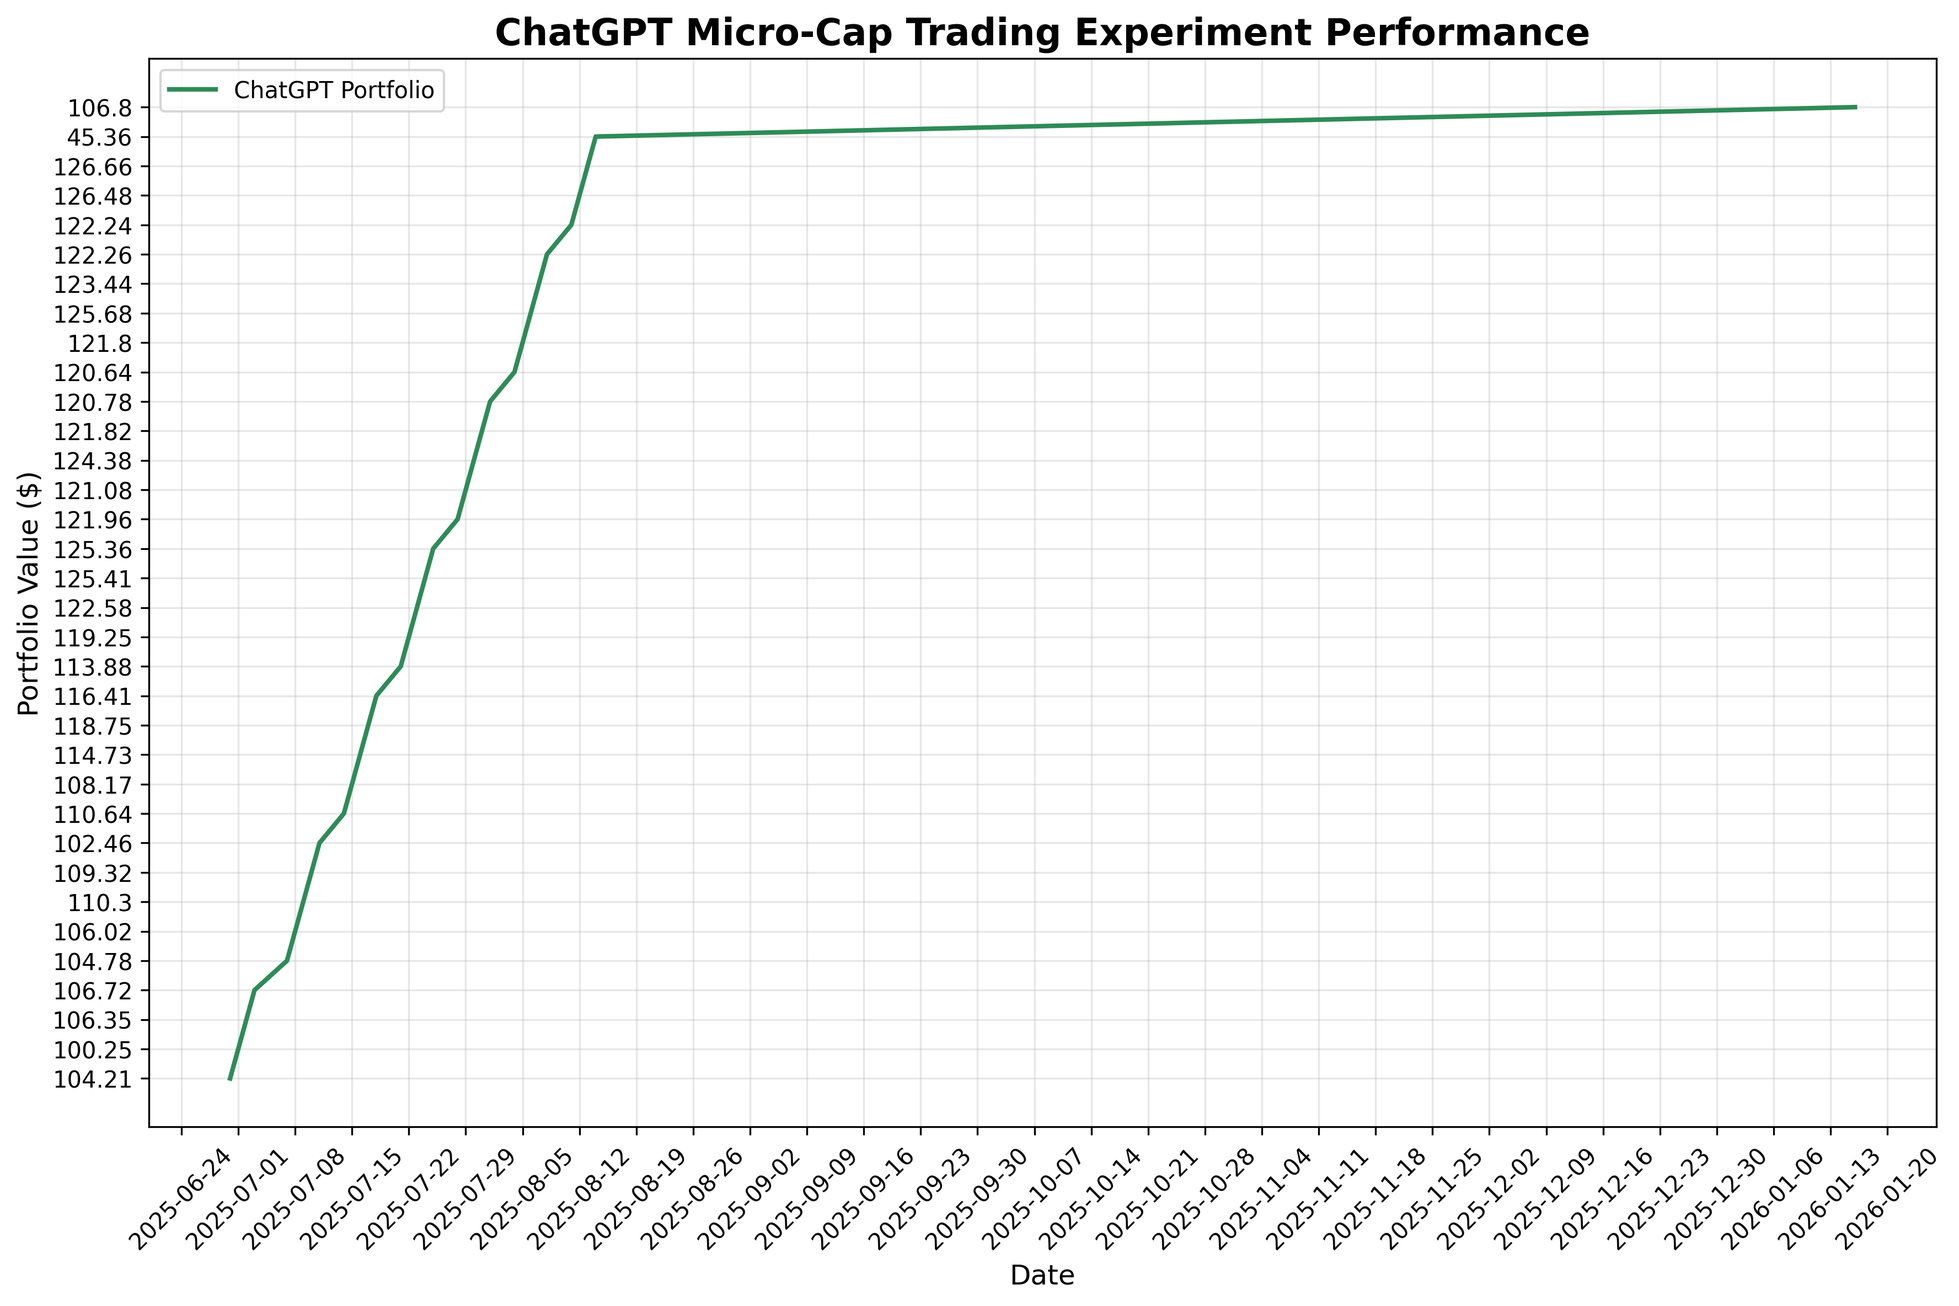
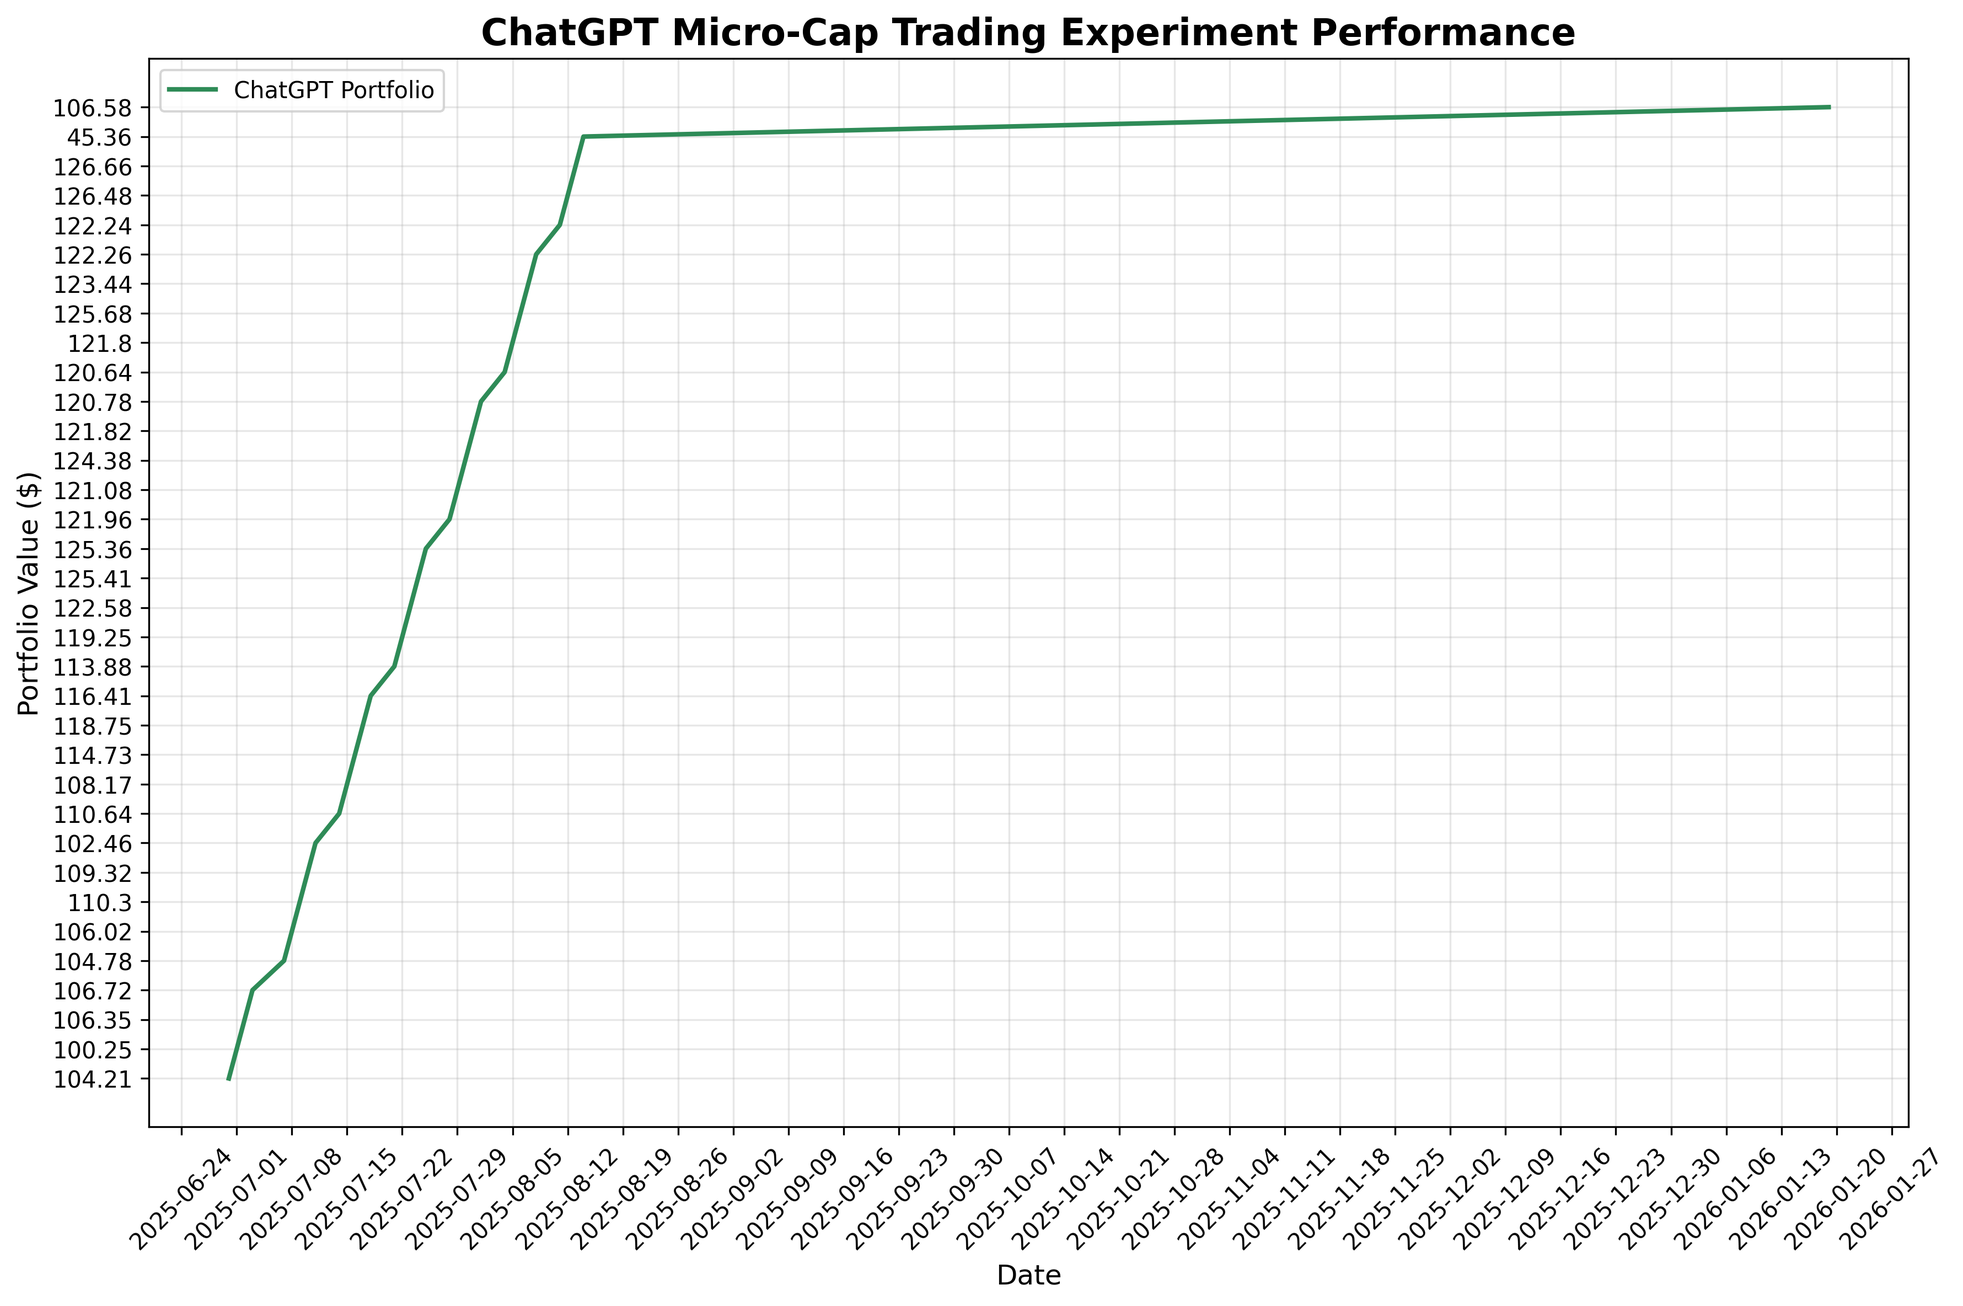
deploy: e15cad030d70fb3fbb51f9df6e22fa70c2f175c0

diff --git a/index.html b/index.html
@@ -105,7 +105,7 @@
                 <div class="stat-label">Total Trades</div>
             </div>
             <div class="stat-card">
-                <div class="stat-value" id="last-updated">2026-01-16</div>
+                <div class="stat-value" id="last-updated">2026-01-19</div>
                 <div class="stat-label">Last Updated</div>
             </div>
         </div>
@@ -160,7 +160,7 @@
     
     <script>
         // Portfolio data
-        const portfolioData = JSON.parse("[{&quot;Date&quot;: &quot;2025-08-11&quot;, &quot;Ticker&quot;: &quot;ABEO&quot;, &quot;Shares&quot;: 4.0, &quot;Buy Price&quot;: 5.77, &quot;Cost Basis&quot;: 23.08, &quot;Stop Loss&quot;: 4.9, &quot;Current Price&quot;: 6.28, &quot;Total Value&quot;: 25.12, &quot;PnL&quot;: 2.04, &quot;Action&quot;: &quot;HOLD&quot;, &quot;Cash Balance&quot;: NaN, &quot;Total Equity&quot;: NaN}, {&quot;Date&quot;: &quot;2025-08-11&quot;, &quot;Ticker&quot;: &quot;ACTU&quot;, &quot;Shares&quot;: 6.0, &quot;Buy Price&quot;: 5.75, &quot;Cost Basis&quot;: 34.5, &quot;Stop Loss&quot;: 4.89, &quot;Current Price&quot;: 8.01, &quot;Total Value&quot;: 48.06, &quot;PnL&quot;: 13.56, &quot;Action&quot;: &quot;HOLD&quot;, &quot;Cash Balance&quot;: NaN, &quot;Total Equity&quot;: NaN}, {&quot;Date&quot;: &quot;2025-08-11&quot;, &quot;Ticker&quot;: &quot;ESPR&quot;, &quot;Shares&quot;: 2.0, &quot;Buy Price&quot;: 1.91, &quot;Cost Basis&quot;: 3.82, &quot;Stop Loss&quot;: 1.6, &quot;Current Price&quot;: 1.85, &quot;Total Value&quot;: 3.7, &quot;PnL&quot;: -0.12, &quot;Action&quot;: &quot;HOLD&quot;, &quot;Cash Balance&quot;: NaN, &quot;Total Equity&quot;: NaN}, {&quot;Date&quot;: &quot;2025-08-11&quot;, &quot;Ticker&quot;: &quot;TOTAL&quot;, &quot;Shares&quot;: NaN, &quot;Buy Price&quot;: NaN, &quot;Cost Basis&quot;: NaN, &quot;Stop Loss&quot;: NaN, &quot;Current Price&quot;: NaN, &quot;Total Value&quot;: 76.88, &quot;PnL&quot;: 15.48, &quot;Action&quot;: NaN, &quot;Cash Balance&quot;: 45.36, &quot;Total Equity&quot;: &quot;122.24&quot;}, {&quot;Date&quot;: &quot;2025-08-12&quot;, &quot;Ticker&quot;: &quot;ABEO&quot;, &quot;Shares&quot;: 4.0, &quot;Buy Price&quot;: 5.77, &quot;Cost Basis&quot;: 23.08, &quot;Stop Loss&quot;: 4.9, &quot;Current Price&quot;: 6.38, &quot;Total Value&quot;: 25.52, &quot;PnL&quot;: 2.44, &quot;Action&quot;: &quot;HOLD&quot;, &quot;Cash Balance&quot;: NaN, &quot;Total Equity&quot;: NaN}, {&quot;Date&quot;: &quot;2025-08-12&quot;, &quot;Ticker&quot;: &quot;ACTU&quot;, &quot;Shares&quot;: 6.0, &quot;Buy Price&quot;: 5.75, &quot;Cost Basis&quot;: 34.5, &quot;Stop Loss&quot;: 4.89, &quot;Current Price&quot;: 8.67, &quot;Total Value&quot;: 52.02, &quot;PnL&quot;: 17.52, &quot;Action&quot;: &quot;HOLD&quot;, &quot;Cash Balance&quot;: NaN, &quot;Total Equity&quot;: NaN}, {&quot;Date&quot;: &quot;2025-08-12&quot;, &quot;Ticker&quot;: &quot;ESPR&quot;, &quot;Shares&quot;: 2.0, &quot;Buy Price&quot;: 1.91, &quot;Cost Basis&quot;: 3.82, &quot;Stop Loss&quot;: 1.6, &quot;Current Price&quot;: 1.79, &quot;Total Value&quot;: 3.58, &quot;PnL&quot;: -0.24, &quot;Action&quot;: &quot;HOLD&quot;, &quot;Cash Balance&quot;: NaN, &quot;Total Equity&quot;: NaN}, {&quot;Date&quot;: &quot;2025-08-12&quot;, &quot;Ticker&quot;: &quot;TOTAL&quot;, &quot;Shares&quot;: NaN, &quot;Buy Price&quot;: NaN, &quot;Cost Basis&quot;: NaN, &quot;Stop Loss&quot;: NaN, &quot;Current Price&quot;: NaN, &quot;Total Value&quot;: 81.12, &quot;PnL&quot;: 19.72, &quot;Action&quot;: NaN, &quot;Cash Balance&quot;: 45.36, &quot;Total Equity&quot;: &quot;126.48&quot;}, {&quot;Date&quot;: &quot;2025-08-13&quot;, &quot;Ticker&quot;: &quot;ABEO&quot;, &quot;Shares&quot;: 4.0, &quot;Buy Price&quot;: 5.77, &quot;Cost Basis&quot;: 23.08, &quot;Stop Loss&quot;: 4.9, &quot;Current Price&quot;: 6.56, &quot;Total Value&quot;: 26.24, &quot;PnL&quot;: 3.16, &quot;Action&quot;: &quot;HOLD&quot;, &quot;Cash Balance&quot;: NaN, &quot;Total Equity&quot;: NaN}, {&quot;Date&quot;: &quot;2025-08-13&quot;, &quot;Ticker&quot;: &quot;ACTU&quot;, &quot;Shares&quot;: 6.0, &quot;Buy Price&quot;: 5.75, &quot;Cost Basis&quot;: 34.5, &quot;Stop Loss&quot;: 4.89, &quot;Current Price&quot;: 8.53, &quot;Total Value&quot;: 51.18, &quot;PnL&quot;: 16.68, &quot;Action&quot;: &quot;HOLD&quot;, &quot;Cash Balance&quot;: NaN, &quot;Total Equity&quot;: NaN}, {&quot;Date&quot;: &quot;2025-08-13&quot;, &quot;Ticker&quot;: &quot;ESPR&quot;, &quot;Shares&quot;: 2.0, &quot;Buy Price&quot;: 1.91, &quot;Cost Basis&quot;: 3.82, &quot;Stop Loss&quot;: 1.6, &quot;Current Price&quot;: 1.94, &quot;Total Value&quot;: 3.88, &quot;PnL&quot;: 0.06, &quot;Action&quot;: &quot;HOLD&quot;, &quot;Cash Balance&quot;: NaN, &quot;Total Equity&quot;: NaN}, {&quot;Date&quot;: &quot;2025-08-13&quot;, &quot;Ticker&quot;: &quot;TOTAL&quot;, &quot;Shares&quot;: NaN, &quot;Buy Price&quot;: NaN, &quot;Cost Basis&quot;: NaN, &quot;Stop Loss&quot;: NaN, &quot;Current Price&quot;: NaN, &quot;Total Value&quot;: 81.3, &quot;PnL&quot;: 19.9, &quot;Action&quot;: NaN, &quot;Cash Balance&quot;: 45.36, &quot;Total Equity&quot;: &quot;126.66&quot;}, {&quot;Date&quot;: &quot;2025-08-14&quot;, &quot;Ticker&quot;: &quot;ABEO&quot;, &quot;Shares&quot;: 4.0, &quot;Buy Price&quot;: 5.77, &quot;Cost Basis&quot;: 23.08, &quot;Stop Loss&quot;: 4.9, &quot;Current Price&quot;: NaN, &quot;Total Value&quot;: NaN, &quot;PnL&quot;: NaN, &quot;Action&quot;: &quot;NO DATA&quot;, &quot;Cash Balance&quot;: NaN, &quot;Total Equity&quot;: NaN}, {&quot;Date&quot;: &quot;2025-08-14&quot;, &quot;Ticker&quot;: &quot;ACTU&quot;, &quot;Shares&quot;: 6.0, &quot;Buy Price&quot;: 5.75, &quot;Cost Basis&quot;: 34.5, &quot;Stop Loss&quot;: 4.89, &quot;Current Price&quot;: NaN, &quot;Total Value&quot;: NaN, &quot;PnL&quot;: NaN, &quot;Action&quot;: &quot;NO DATA&quot;, &quot;Cash Balance&quot;: NaN, &quot;Total Equity&quot;: NaN}, {&quot;Date&quot;: &quot;2025-08-14&quot;, &quot;Ticker&quot;: &quot;ESPR&quot;, &quot;Shares&quot;: 2.0, &quot;Buy Price&quot;: 1.91, &quot;Cost Basis&quot;: 3.82, &quot;Stop Loss&quot;: 1.6, &quot;Current Price&quot;: NaN, &quot;Total Value&quot;: NaN, &quot;PnL&quot;: NaN, &quot;Action&quot;: &quot;NO DATA&quot;, &quot;Cash Balance&quot;: NaN, &quot;Total Equity&quot;: NaN}, {&quot;Date&quot;: &quot;2025-08-14&quot;, &quot;Ticker&quot;: &quot;TOTAL&quot;, &quot;Shares&quot;: NaN, &quot;Buy Price&quot;: NaN, &quot;Cost Basis&quot;: NaN, &quot;Stop Loss&quot;: NaN, &quot;Current Price&quot;: NaN, &quot;Total Value&quot;: 0.0, &quot;PnL&quot;: 0.0, &quot;Action&quot;: NaN, &quot;Cash Balance&quot;: 45.36, &quot;Total Equity&quot;: &quot;45.36&quot;}, {&quot;Date&quot;: &quot;2026-01-16&quot;, &quot;Ticker&quot;: &quot;ABEO&quot;, &quot;Shares&quot;: 4.0, &quot;Buy Price&quot;: 5.77, &quot;Cost Basis&quot;: 23.08, &quot;Stop Loss&quot;: 4.9, &quot;Current Price&quot;: 5.64, &quot;Total Value&quot;: 22.56, &quot;PnL&quot;: -0.52, &quot;Action&quot;: &quot;HOLD&quot;, &quot;Cash Balance&quot;: NaN, &quot;Total Equity&quot;: NaN}, {&quot;Date&quot;: &quot;2026-01-16&quot;, &quot;Ticker&quot;: &quot;ACTU&quot;, &quot;Shares&quot;: 6.0, &quot;Buy Price&quot;: 5.75, &quot;Cost Basis&quot;: 34.5, &quot;Stop Loss&quot;: 4.89, &quot;Current Price&quot;: 5.44, &quot;Total Value&quot;: 32.64, &quot;PnL&quot;: -1.86, &quot;Action&quot;: &quot;HOLD&quot;, &quot;Cash Balance&quot;: NaN, &quot;Total Equity&quot;: NaN}, {&quot;Date&quot;: &quot;2026-01-16&quot;, &quot;Ticker&quot;: &quot;ESPR&quot;, &quot;Shares&quot;: 2.0, &quot;Buy Price&quot;: 1.91, &quot;Cost Basis&quot;: 3.82, &quot;Stop Loss&quot;: 1.6, &quot;Current Price&quot;: 3.12, &quot;Total Value&quot;: 6.24, &quot;PnL&quot;: 2.42, &quot;Action&quot;: &quot;HOLD&quot;, &quot;Cash Balance&quot;: NaN, &quot;Total Equity&quot;: NaN}, {&quot;Date&quot;: &quot;2026-01-16&quot;, &quot;Ticker&quot;: &quot;TOTAL&quot;, &quot;Shares&quot;: NaN, &quot;Buy Price&quot;: NaN, &quot;Cost Basis&quot;: NaN, &quot;Stop Loss&quot;: NaN, &quot;Current Price&quot;: NaN, &quot;Total Value&quot;: 61.44, &quot;PnL&quot;: 0.04, &quot;Action&quot;: NaN, &quot;Cash Balance&quot;: 45.36, &quot;Total Equity&quot;: &quot;106.8&quot;}]");
+        const portfolioData = JSON.parse("[{&quot;Date&quot;: &quot;2025-08-11&quot;, &quot;Ticker&quot;: &quot;ABEO&quot;, &quot;Shares&quot;: 4.0, &quot;Buy Price&quot;: 5.77, &quot;Cost Basis&quot;: 23.08, &quot;Stop Loss&quot;: 4.9, &quot;Current Price&quot;: 6.28, &quot;Total Value&quot;: 25.12, &quot;PnL&quot;: 2.04, &quot;Action&quot;: &quot;HOLD&quot;, &quot;Cash Balance&quot;: NaN, &quot;Total Equity&quot;: NaN}, {&quot;Date&quot;: &quot;2025-08-11&quot;, &quot;Ticker&quot;: &quot;ACTU&quot;, &quot;Shares&quot;: 6.0, &quot;Buy Price&quot;: 5.75, &quot;Cost Basis&quot;: 34.5, &quot;Stop Loss&quot;: 4.89, &quot;Current Price&quot;: 8.01, &quot;Total Value&quot;: 48.06, &quot;PnL&quot;: 13.56, &quot;Action&quot;: &quot;HOLD&quot;, &quot;Cash Balance&quot;: NaN, &quot;Total Equity&quot;: NaN}, {&quot;Date&quot;: &quot;2025-08-11&quot;, &quot;Ticker&quot;: &quot;ESPR&quot;, &quot;Shares&quot;: 2.0, &quot;Buy Price&quot;: 1.91, &quot;Cost Basis&quot;: 3.82, &quot;Stop Loss&quot;: 1.6, &quot;Current Price&quot;: 1.85, &quot;Total Value&quot;: 3.7, &quot;PnL&quot;: -0.12, &quot;Action&quot;: &quot;HOLD&quot;, &quot;Cash Balance&quot;: NaN, &quot;Total Equity&quot;: NaN}, {&quot;Date&quot;: &quot;2025-08-11&quot;, &quot;Ticker&quot;: &quot;TOTAL&quot;, &quot;Shares&quot;: NaN, &quot;Buy Price&quot;: NaN, &quot;Cost Basis&quot;: NaN, &quot;Stop Loss&quot;: NaN, &quot;Current Price&quot;: NaN, &quot;Total Value&quot;: 76.88, &quot;PnL&quot;: 15.48, &quot;Action&quot;: NaN, &quot;Cash Balance&quot;: 45.36, &quot;Total Equity&quot;: &quot;122.24&quot;}, {&quot;Date&quot;: &quot;2025-08-12&quot;, &quot;Ticker&quot;: &quot;ABEO&quot;, &quot;Shares&quot;: 4.0, &quot;Buy Price&quot;: 5.77, &quot;Cost Basis&quot;: 23.08, &quot;Stop Loss&quot;: 4.9, &quot;Current Price&quot;: 6.38, &quot;Total Value&quot;: 25.52, &quot;PnL&quot;: 2.44, &quot;Action&quot;: &quot;HOLD&quot;, &quot;Cash Balance&quot;: NaN, &quot;Total Equity&quot;: NaN}, {&quot;Date&quot;: &quot;2025-08-12&quot;, &quot;Ticker&quot;: &quot;ACTU&quot;, &quot;Shares&quot;: 6.0, &quot;Buy Price&quot;: 5.75, &quot;Cost Basis&quot;: 34.5, &quot;Stop Loss&quot;: 4.89, &quot;Current Price&quot;: 8.67, &quot;Total Value&quot;: 52.02, &quot;PnL&quot;: 17.52, &quot;Action&quot;: &quot;HOLD&quot;, &quot;Cash Balance&quot;: NaN, &quot;Total Equity&quot;: NaN}, {&quot;Date&quot;: &quot;2025-08-12&quot;, &quot;Ticker&quot;: &quot;ESPR&quot;, &quot;Shares&quot;: 2.0, &quot;Buy Price&quot;: 1.91, &quot;Cost Basis&quot;: 3.82, &quot;Stop Loss&quot;: 1.6, &quot;Current Price&quot;: 1.79, &quot;Total Value&quot;: 3.58, &quot;PnL&quot;: -0.24, &quot;Action&quot;: &quot;HOLD&quot;, &quot;Cash Balance&quot;: NaN, &quot;Total Equity&quot;: NaN}, {&quot;Date&quot;: &quot;2025-08-12&quot;, &quot;Ticker&quot;: &quot;TOTAL&quot;, &quot;Shares&quot;: NaN, &quot;Buy Price&quot;: NaN, &quot;Cost Basis&quot;: NaN, &quot;Stop Loss&quot;: NaN, &quot;Current Price&quot;: NaN, &quot;Total Value&quot;: 81.12, &quot;PnL&quot;: 19.72, &quot;Action&quot;: NaN, &quot;Cash Balance&quot;: 45.36, &quot;Total Equity&quot;: &quot;126.48&quot;}, {&quot;Date&quot;: &quot;2025-08-13&quot;, &quot;Ticker&quot;: &quot;ABEO&quot;, &quot;Shares&quot;: 4.0, &quot;Buy Price&quot;: 5.77, &quot;Cost Basis&quot;: 23.08, &quot;Stop Loss&quot;: 4.9, &quot;Current Price&quot;: 6.56, &quot;Total Value&quot;: 26.24, &quot;PnL&quot;: 3.16, &quot;Action&quot;: &quot;HOLD&quot;, &quot;Cash Balance&quot;: NaN, &quot;Total Equity&quot;: NaN}, {&quot;Date&quot;: &quot;2025-08-13&quot;, &quot;Ticker&quot;: &quot;ACTU&quot;, &quot;Shares&quot;: 6.0, &quot;Buy Price&quot;: 5.75, &quot;Cost Basis&quot;: 34.5, &quot;Stop Loss&quot;: 4.89, &quot;Current Price&quot;: 8.53, &quot;Total Value&quot;: 51.18, &quot;PnL&quot;: 16.68, &quot;Action&quot;: &quot;HOLD&quot;, &quot;Cash Balance&quot;: NaN, &quot;Total Equity&quot;: NaN}, {&quot;Date&quot;: &quot;2025-08-13&quot;, &quot;Ticker&quot;: &quot;ESPR&quot;, &quot;Shares&quot;: 2.0, &quot;Buy Price&quot;: 1.91, &quot;Cost Basis&quot;: 3.82, &quot;Stop Loss&quot;: 1.6, &quot;Current Price&quot;: 1.94, &quot;Total Value&quot;: 3.88, &quot;PnL&quot;: 0.06, &quot;Action&quot;: &quot;HOLD&quot;, &quot;Cash Balance&quot;: NaN, &quot;Total Equity&quot;: NaN}, {&quot;Date&quot;: &quot;2025-08-13&quot;, &quot;Ticker&quot;: &quot;TOTAL&quot;, &quot;Shares&quot;: NaN, &quot;Buy Price&quot;: NaN, &quot;Cost Basis&quot;: NaN, &quot;Stop Loss&quot;: NaN, &quot;Current Price&quot;: NaN, &quot;Total Value&quot;: 81.3, &quot;PnL&quot;: 19.9, &quot;Action&quot;: NaN, &quot;Cash Balance&quot;: 45.36, &quot;Total Equity&quot;: &quot;126.66&quot;}, {&quot;Date&quot;: &quot;2025-08-14&quot;, &quot;Ticker&quot;: &quot;ABEO&quot;, &quot;Shares&quot;: 4.0, &quot;Buy Price&quot;: 5.77, &quot;Cost Basis&quot;: 23.08, &quot;Stop Loss&quot;: 4.9, &quot;Current Price&quot;: NaN, &quot;Total Value&quot;: NaN, &quot;PnL&quot;: NaN, &quot;Action&quot;: &quot;NO DATA&quot;, &quot;Cash Balance&quot;: NaN, &quot;Total Equity&quot;: NaN}, {&quot;Date&quot;: &quot;2025-08-14&quot;, &quot;Ticker&quot;: &quot;ACTU&quot;, &quot;Shares&quot;: 6.0, &quot;Buy Price&quot;: 5.75, &quot;Cost Basis&quot;: 34.5, &quot;Stop Loss&quot;: 4.89, &quot;Current Price&quot;: NaN, &quot;Total Value&quot;: NaN, &quot;PnL&quot;: NaN, &quot;Action&quot;: &quot;NO DATA&quot;, &quot;Cash Balance&quot;: NaN, &quot;Total Equity&quot;: NaN}, {&quot;Date&quot;: &quot;2025-08-14&quot;, &quot;Ticker&quot;: &quot;ESPR&quot;, &quot;Shares&quot;: 2.0, &quot;Buy Price&quot;: 1.91, &quot;Cost Basis&quot;: 3.82, &quot;Stop Loss&quot;: 1.6, &quot;Current Price&quot;: NaN, &quot;Total Value&quot;: NaN, &quot;PnL&quot;: NaN, &quot;Action&quot;: &quot;NO DATA&quot;, &quot;Cash Balance&quot;: NaN, &quot;Total Equity&quot;: NaN}, {&quot;Date&quot;: &quot;2025-08-14&quot;, &quot;Ticker&quot;: &quot;TOTAL&quot;, &quot;Shares&quot;: NaN, &quot;Buy Price&quot;: NaN, &quot;Cost Basis&quot;: NaN, &quot;Stop Loss&quot;: NaN, &quot;Current Price&quot;: NaN, &quot;Total Value&quot;: 0.0, &quot;PnL&quot;: 0.0, &quot;Action&quot;: NaN, &quot;Cash Balance&quot;: 45.36, &quot;Total Equity&quot;: &quot;45.36&quot;}, {&quot;Date&quot;: &quot;2026-01-19&quot;, &quot;Ticker&quot;: &quot;ABEO&quot;, &quot;Shares&quot;: 4.0, &quot;Buy Price&quot;: 5.77, &quot;Cost Basis&quot;: 23.08, &quot;Stop Loss&quot;: 4.9, &quot;Current Price&quot;: 5.25, &quot;Total Value&quot;: 21.0, &quot;PnL&quot;: -2.08, &quot;Action&quot;: &quot;HOLD&quot;, &quot;Cash Balance&quot;: NaN, &quot;Total Equity&quot;: NaN}, {&quot;Date&quot;: &quot;2026-01-19&quot;, &quot;Ticker&quot;: &quot;ACTU&quot;, &quot;Shares&quot;: 6.0, &quot;Buy Price&quot;: 5.75, &quot;Cost Basis&quot;: 34.5, &quot;Stop Loss&quot;: 4.89, &quot;Current Price&quot;: 5.69, &quot;Total Value&quot;: 34.14, &quot;PnL&quot;: -0.36, &quot;Action&quot;: &quot;HOLD&quot;, &quot;Cash Balance&quot;: NaN, &quot;Total Equity&quot;: NaN}, {&quot;Date&quot;: &quot;2026-01-19&quot;, &quot;Ticker&quot;: &quot;ESPR&quot;, &quot;Shares&quot;: 2.0, &quot;Buy Price&quot;: 1.91, &quot;Cost Basis&quot;: 3.82, &quot;Stop Loss&quot;: 1.6, &quot;Current Price&quot;: 3.04, &quot;Total Value&quot;: 6.08, &quot;PnL&quot;: 2.26, &quot;Action&quot;: &quot;HOLD&quot;, &quot;Cash Balance&quot;: NaN, &quot;Total Equity&quot;: NaN}, {&quot;Date&quot;: &quot;2026-01-19&quot;, &quot;Ticker&quot;: &quot;TOTAL&quot;, &quot;Shares&quot;: NaN, &quot;Buy Price&quot;: NaN, &quot;Cost Basis&quot;: NaN, &quot;Stop Loss&quot;: NaN, &quot;Current Price&quot;: NaN, &quot;Total Value&quot;: 61.22, &quot;PnL&quot;: -0.18, &quot;Action&quot;: NaN, &quot;Cash Balance&quot;: 45.36, &quot;Total Equity&quot;: &quot;106.58&quot;}]");
         const tradeData = JSON.parse("[{&quot;Date&quot;: &quot;2025-07-07&quot;, &quot;Ticker&quot;: &quot;CSAI&quot;, &quot;Shares Bought&quot;: NaN, &quot;Buy Price&quot;: NaN, &quot;Cost Basis&quot;: 1.9, &quot;PnL&quot;: 5.7, &quot;Reason&quot;: &quot;MANUAL SELL - Rotated into AZTR&quot;, &quot;Shares Sold&quot;: 15.0, &quot;Sell Price&quot;: 2.28}, {&quot;Date&quot;: &quot;2025-07-08&quot;, &quot;Ticker&quot;: &quot;IINN&quot;, &quot;Shares Bought&quot;: 20.0, &quot;Buy Price&quot;: 1.5, &quot;Cost Basis&quot;: 30.0, &quot;PnL&quot;: 0.0, &quot;Reason&quot;: &quot;MANUAL BUY - New position&quot;, &quot;Shares Sold&quot;: NaN, &quot;Sell Price&quot;: NaN}, {&quot;Date&quot;: &quot;2025-07-21&quot;, &quot;Ticker&quot;: &quot;CADL&quot;, &quot;Shares Bought&quot;: NaN, &quot;Buy Price&quot;: NaN, &quot;Cost Basis&quot;: 25.2, &quot;PnL&quot;: 8.5, &quot;Reason&quot;: &quot;MANUAL SELL - GAIN CAPITAL FOR ACTU&quot;, &quot;Shares Sold&quot;: 5.0, &quot;Sell Price&quot;: 6.59}, {&quot;Date&quot;: &quot;2025-07-21&quot;, &quot;Ticker&quot;: &quot;ACTU&quot;, &quot;Shares Bought&quot;: 6.0, &quot;Buy Price&quot;: 5.75, &quot;Cost Basis&quot;: 34.5, &quot;PnL&quot;: 0.0, &quot;Reason&quot;: &quot;MANUAL BUY - New position&quot;, &quot;Shares Sold&quot;: NaN, &quot;Sell Price&quot;: NaN}, {&quot;Date&quot;: &quot;2025-07-28&quot;, &quot;Ticker&quot;: &quot;IINN&quot;, &quot;Shares Bought&quot;: NaN, &quot;Buy Price&quot;: NaN, &quot;Cost Basis&quot;: 9.0, &quot;PnL&quot;: -0.5400000000000009, &quot;Reason&quot;: &quot;MANUAL SELL - POSITION REDUCTION&quot;, &quot;Shares Sold&quot;: 6.0, &quot;Sell Price&quot;: 1.41}, {&quot;Date&quot;: &quot;2025-07-29&quot;, &quot;Ticker&quot;: &quot;AZTR&quot;, &quot;Shares Bought&quot;: NaN, &quot;Buy Price&quot;: NaN, &quot;Cost Basis&quot;: 13.75, &quot;PnL&quot;: -2.75, &quot;Reason&quot;: &quot;MANUAL SELL - DILUTION RISK&quot;, &quot;Shares Sold&quot;: 55.0, &quot;Sell Price&quot;: 0.2}, {&quot;Date&quot;: &quot;2025-08-01&quot;, &quot;Ticker&quot;: &quot;IINN&quot;, &quot;Shares Bought&quot;: 2.0, &quot;Buy Price&quot;: 1.74, &quot;Cost Basis&quot;: 3.48, &quot;PnL&quot;: 0.0, &quot;Reason&quot;: &quot;MANUAL BUY - New position&quot;, &quot;Shares Sold&quot;: NaN, &quot;Sell Price&quot;: NaN}, {&quot;Date&quot;: &quot;2025-08-01&quot;, &quot;Ticker&quot;: &quot;ABEO&quot;, &quot;Shares Bought&quot;: NaN, &quot;Buy Price&quot;: NaN, &quot;Cost Basis&quot;: 11.54, &quot;PnL&quot;: 1.200000000000001, &quot;Reason&quot;: &quot;MANUAL SELL - TRIM AFTER SUPPORT LOSS&quot;, &quot;Shares Sold&quot;: 2.0, &quot;Sell Price&quot;: 6.37}, {&quot;Date&quot;: &quot;2025-08-07&quot;, &quot;Ticker&quot;: &quot;ESPR&quot;, &quot;Shares Bought&quot;: 2.0, &quot;Buy Price&quot;: 1.91, &quot;Cost Basis&quot;: 3.82, &quot;PnL&quot;: 0.0, &quot;Reason&quot;: &quot;MANUAL BUY - New position&quot;, &quot;Shares Sold&quot;: NaN, &quot;Sell Price&quot;: NaN}, {&quot;Date&quot;: &quot;2025-08-08&quot;, &quot;Ticker&quot;: &quot;IINN&quot;, &quot;Shares Bought&quot;: NaN, &quot;Buy Price&quot;: NaN, &quot;Cost Basis&quot;: 1.5, &quot;PnL&quot;: -6.4, &quot;Reason&quot;: &quot;AUTOMATED SELL - STOPLOSS TRIGGERED&quot;, &quot;Shares Sold&quot;: 16.0, &quot;Sell Price&quot;: 1.1}]");
         
         // Update total equity
